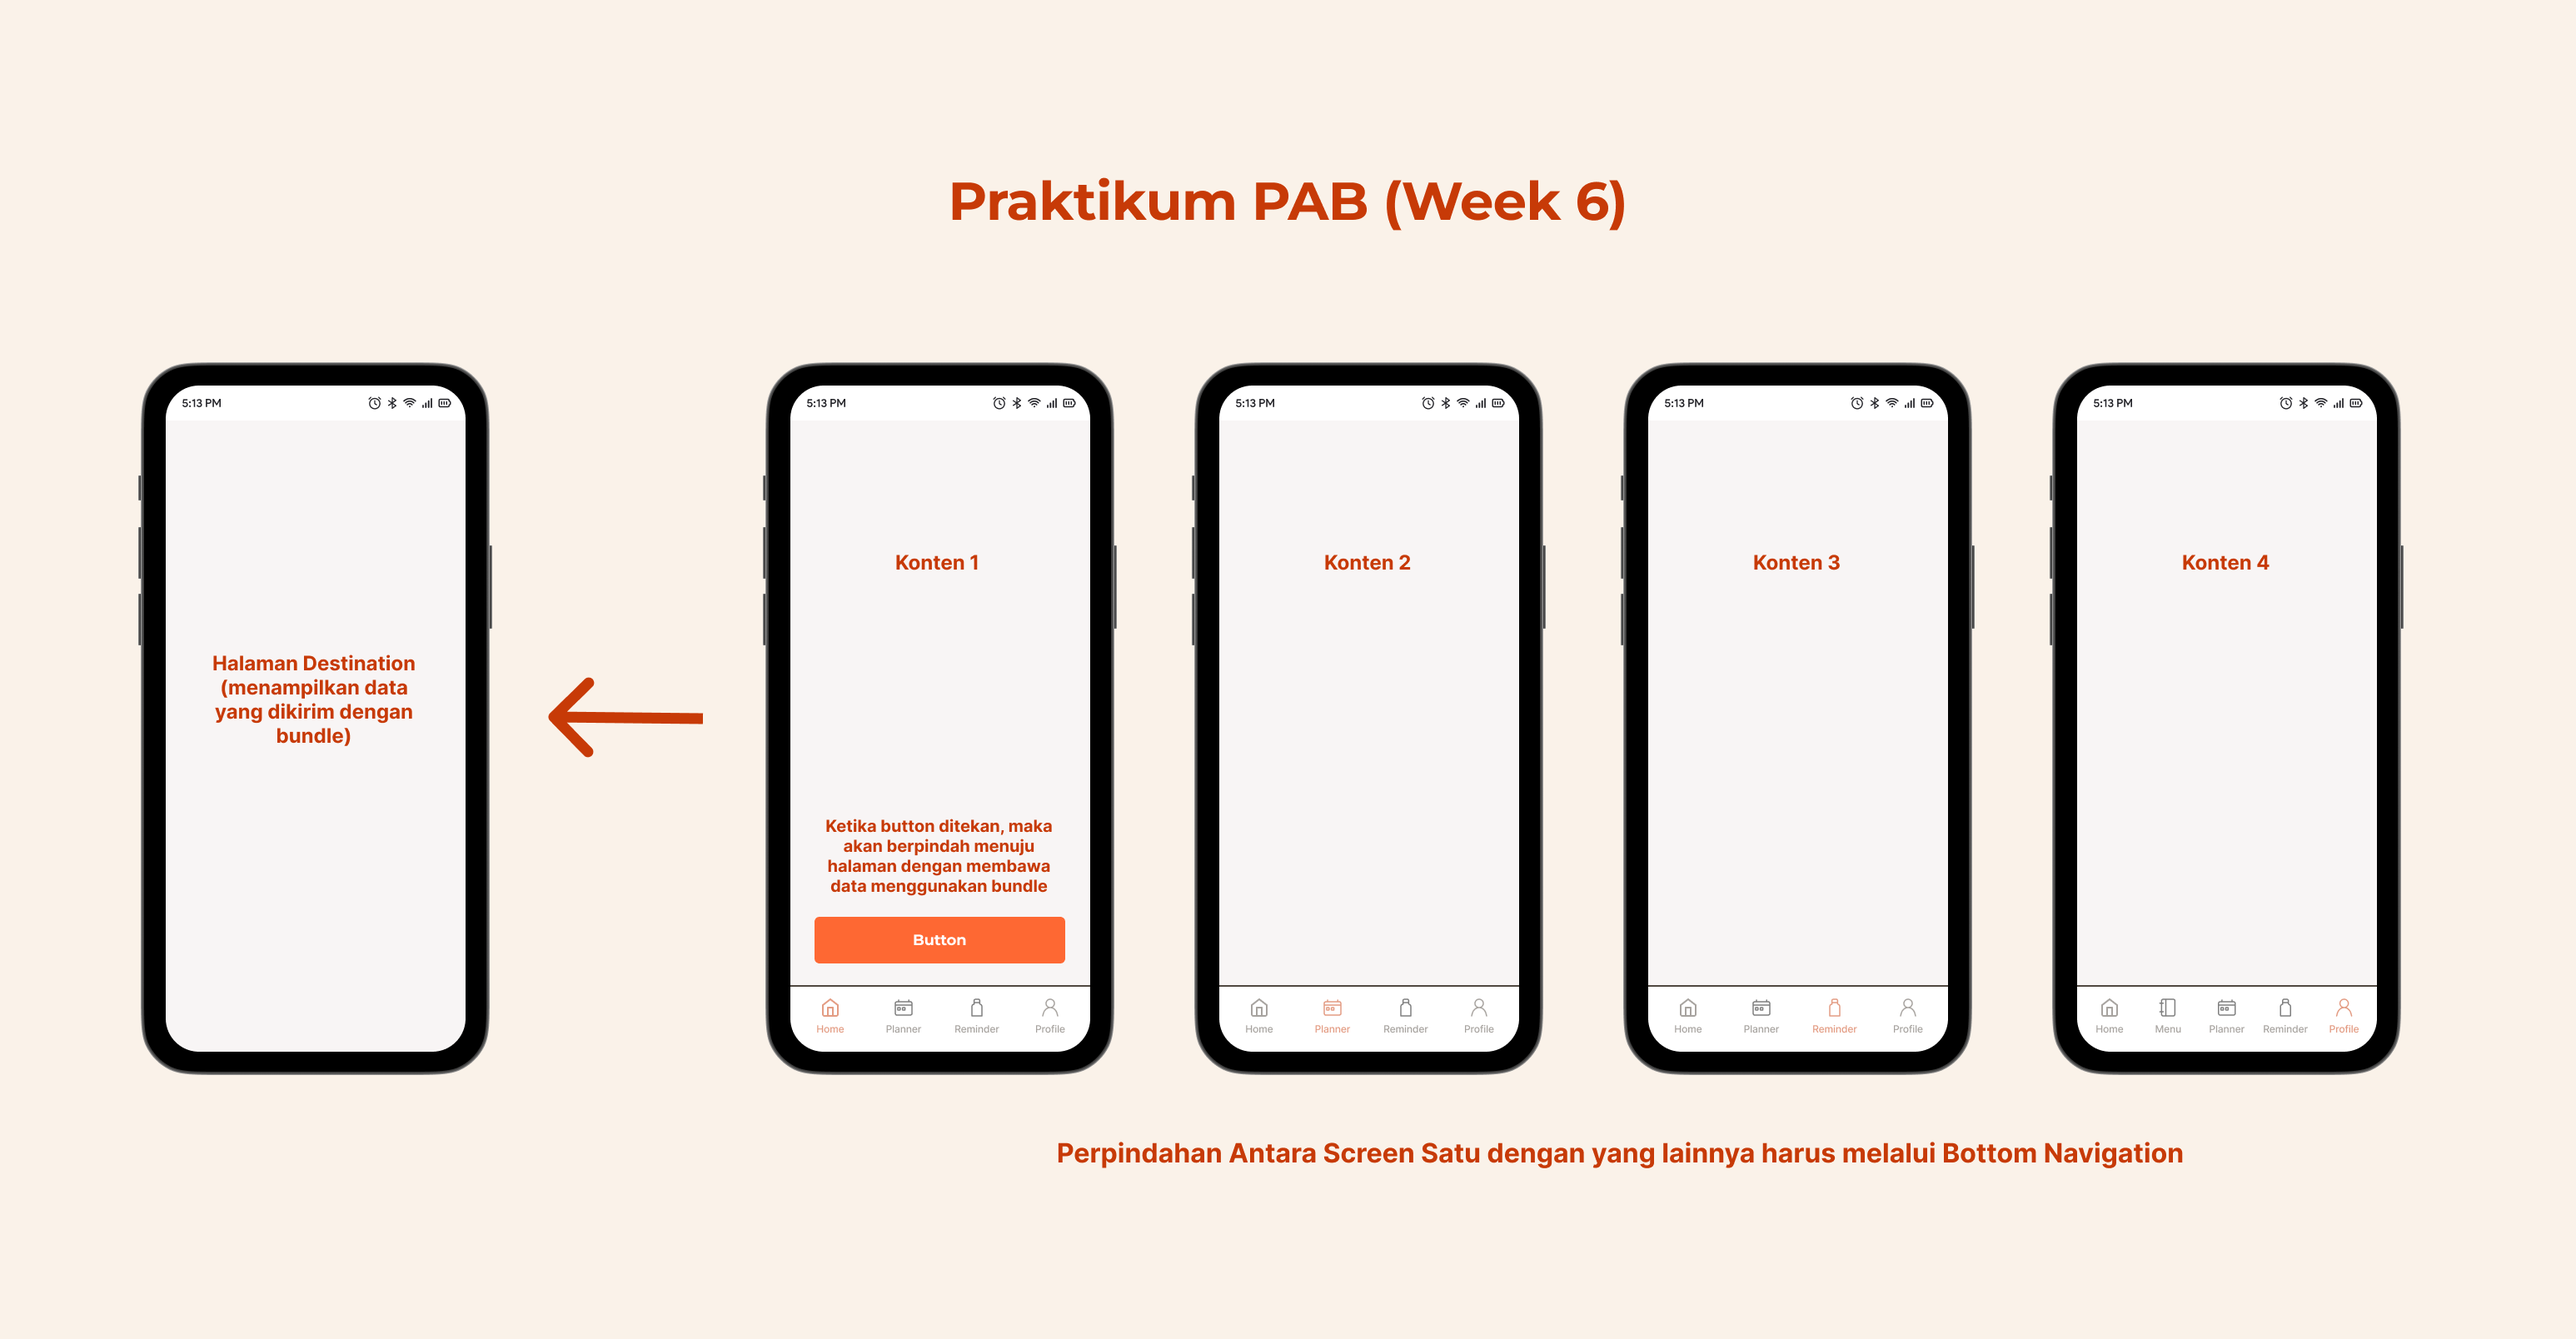
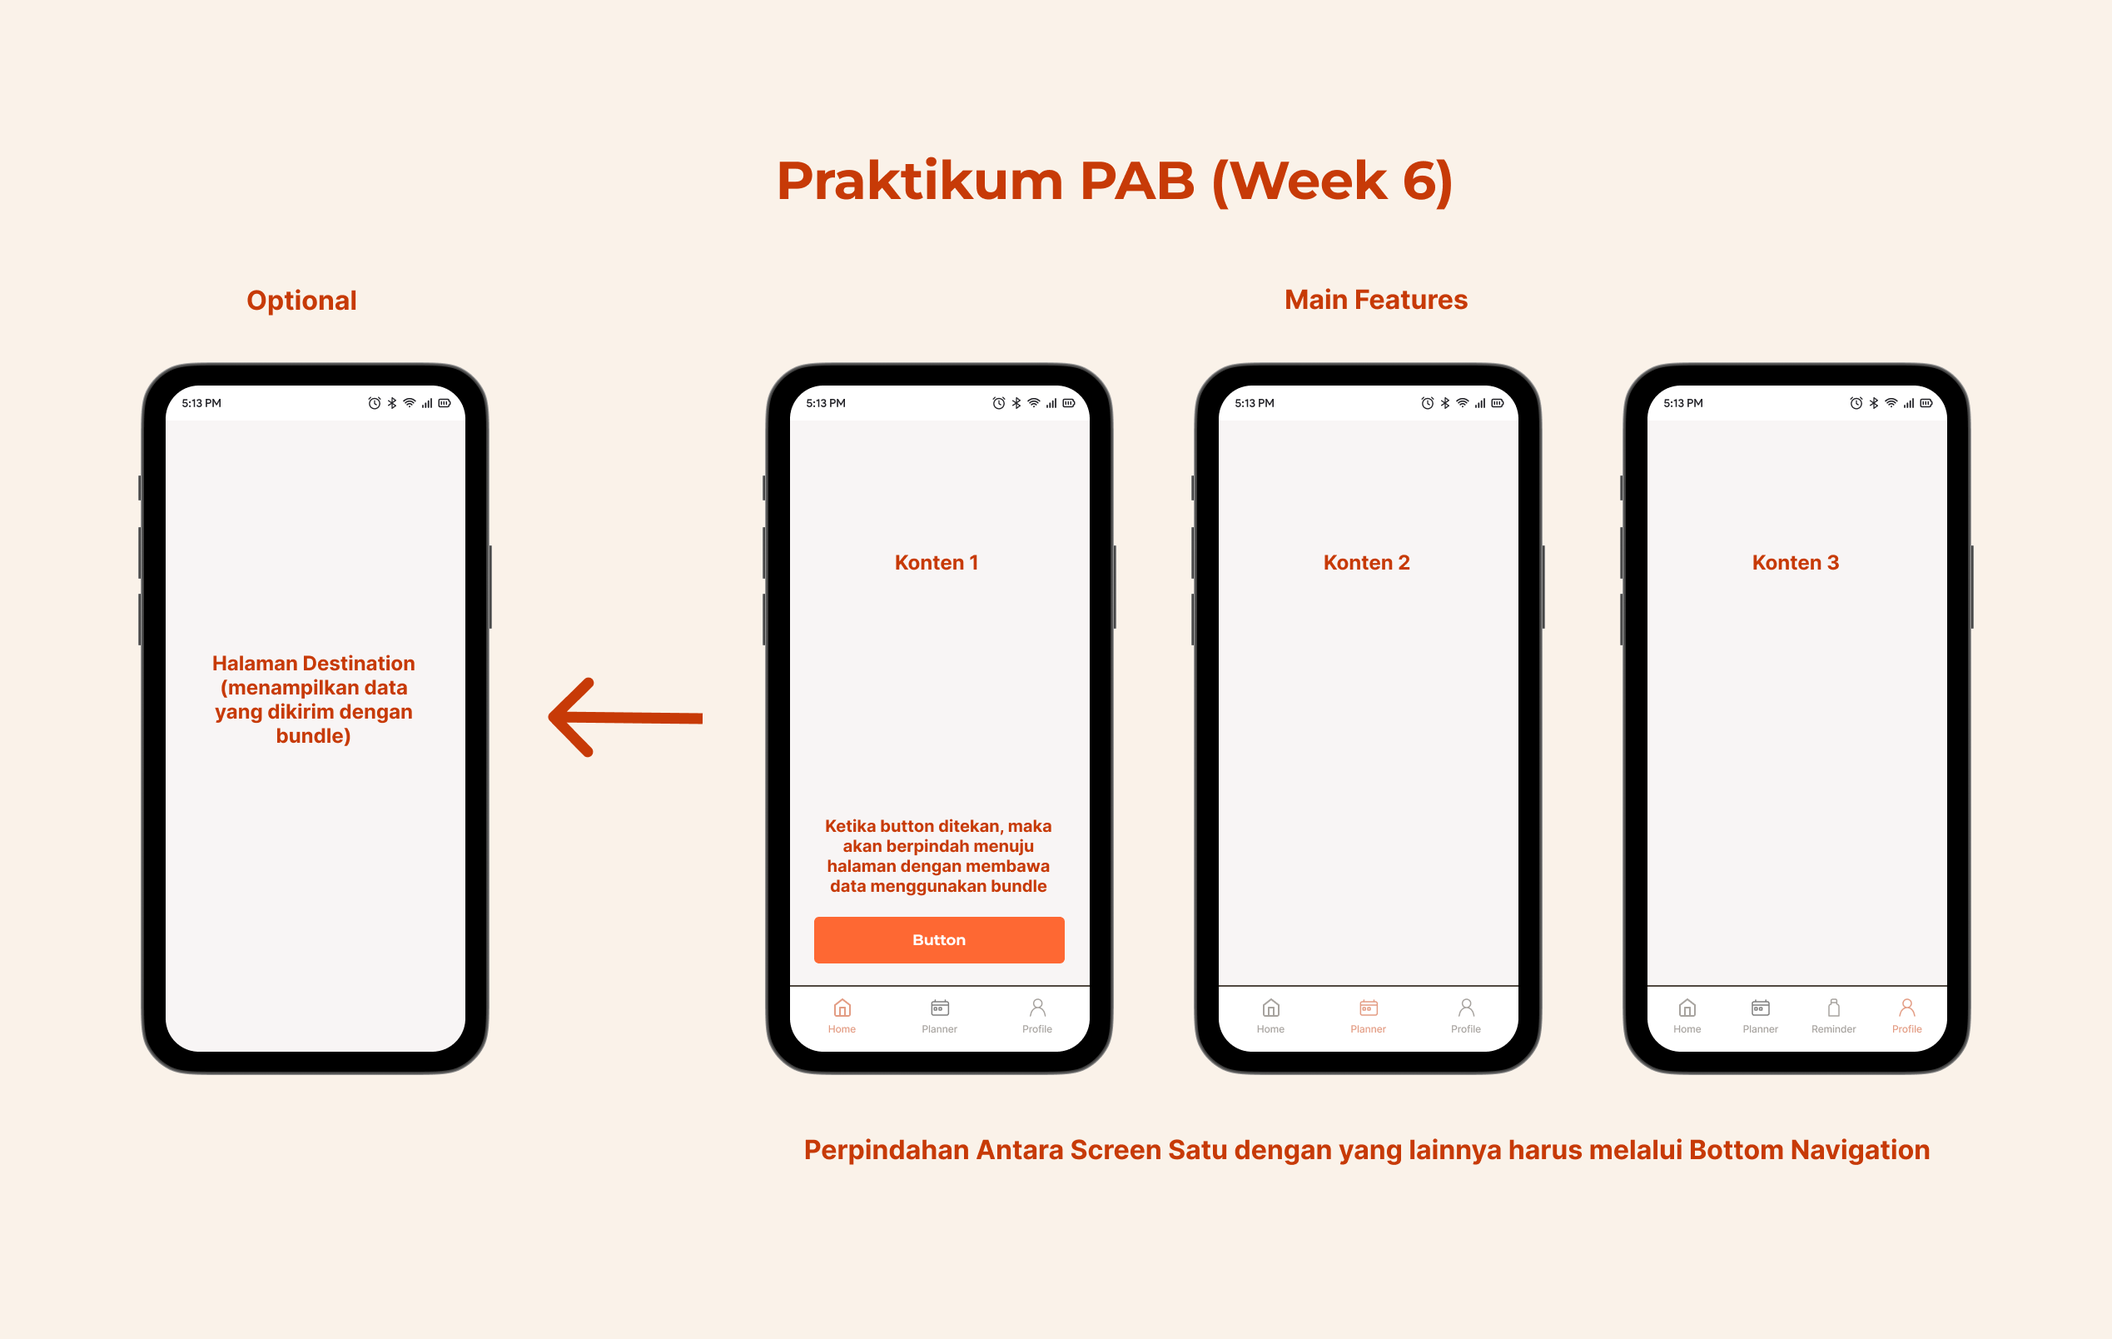
Changed Image Tugas and Revision the Task

diff --git a/Week6_AndroidFundamental1/Tugas.md b/Week6_AndroidFundamental1/Tugas.md
@@ -3,14 +3,17 @@
 ### Buatlah sebuah aplikasi android dengan mengimplementasikan komponen - komponen di bawah ini.
 
   1. Aplikasi tersebut harus menggunakan **Bottom Navigation** dengan **kriteria** sebagai berikut.
-      - Minimal **terdapat 4 item yang menampilkan 4 screen pada bottom navigation**
+      - Minimal **terdapat 43tem yang menampilkan 3 screen pada bottom navigation**
       - Isi **konten pada tiap screen harus berbeda-beda**
+      - **Icon pada Bottom Navigation** tidak boleh sama seperti pada template
 
-  2. Aplikasi harus menerapkan **Navigation Component** dengan **kriteria** sebagai berikut. 
+  2. Aplikasi menerapkan **Navigation Component** dengan **kriteria** sebagai berikut **(Opsional)**
       - Minimal terdapat **1 Actions yang menuju ke 1 Screen Destinations dengan mengirim data menggunakan bundle**
-      - Jika bisa menerapkan **lebih dari 1 Destination akan mendapatkan nilai tambahan.**
+      - Menerapkan **lebih dari 1 Destination akan mendapatkan nilai tambahan.**
 
-  3. Sertakan **Screenshot dari Navigation Graph** pada Laporan Praktikum.
+  3. Sertakan **Screenshot dari Navigation Graph** pada Laporan Praktikum **(Opsional)**
+
+  Note: Jika menerapkan fitur opsional maka akan mendapat nilai tambahan, asisten sangat merekomendasikan untuk membuat fitur opsional jika pengumpuluan tugas praktikum sebelumnya banyak mengalami keterlambatan pengumpuluan.
 
   ### Berikut konsep dari Kriteria Aplikasi
 
